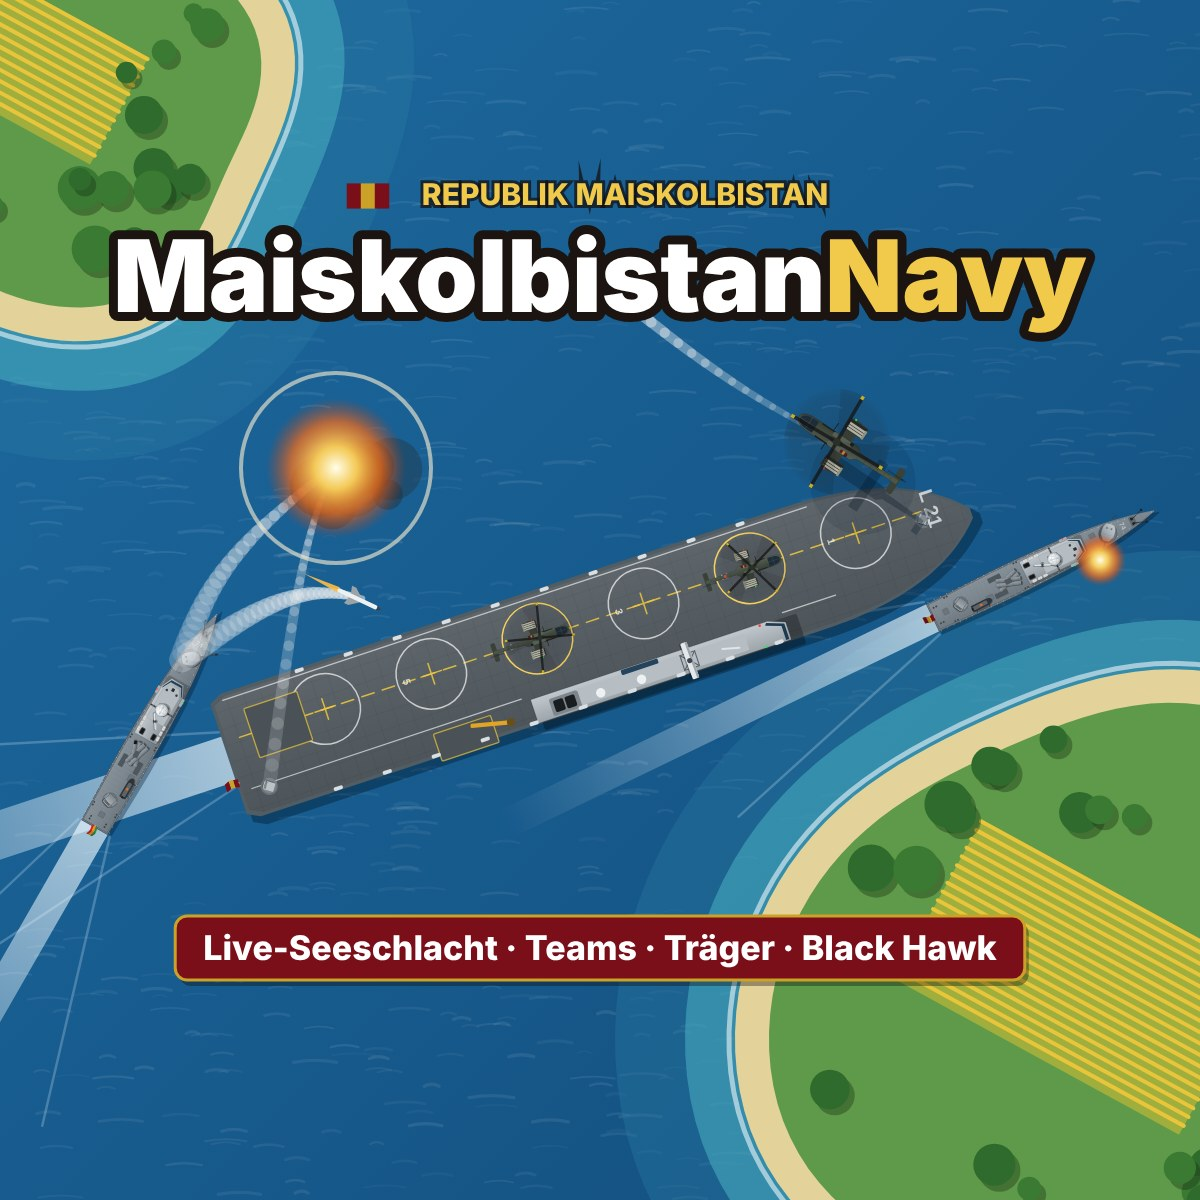
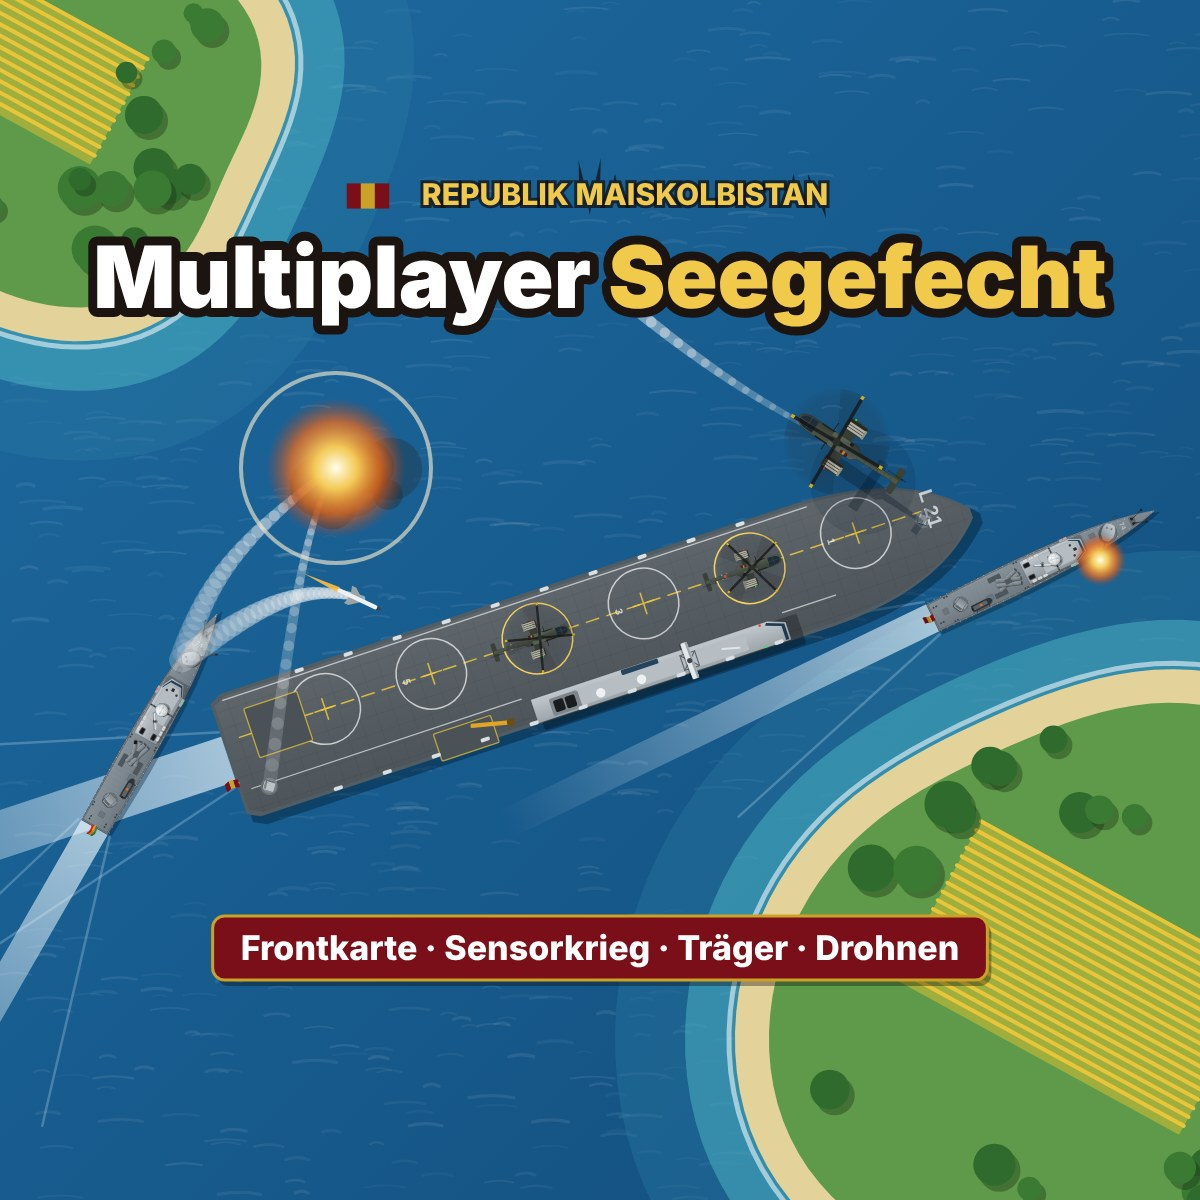
Spiel umbenannt in „Multiplayer Seegefecht“
- Titel im Browser-Tab, Startbildschirm und Link-Vorschau
- Vorschaubilder neu erzeugt (neuer Titel, Schlagworte Frontkarte · Sensorkrieg · Träger · Drohnen)
- Webadresse, Worker und Repo bleiben unverändert

Claude-Session: https://claude.ai/code/session_01H2UiKprrRmZyPj9vJsxAtU

Changed region(s): [[0.0617, 0.185, 0.925, 0.3083], [0.1233, 0.74, 0.8633, 0.8325]]

diff --git a/public/index.html b/public/index.html
@@ -3,9 +3,9 @@
 <head>
   <meta charset="utf-8" />
   <meta name="viewport" content="width=device-width, initial-scale=1" />
-  <title>MaiskolbistanNavy</title>
+  <title>Multiplayer Seegefecht</title>
   <meta name="description" content="Live-Seeschlacht der Republik Maiskolbistan: Team wählen, mit Schnellboot, Hubschrauberträger oder Black Hawk gegen Paprikistan kämpfen." />
-  <meta property="og:title" content="MaiskolbistanNavy" />
+  <meta property="og:title" content="Multiplayer Seegefecht" />
   <meta property="og:description" content="Live-Seeschlacht für viele Spieler direkt im Browser – Maiskolbistan gegen Paprikistan." />
   <meta property="og:image" content="https://maiskolbistan-navy.nikesieg0.workers.dev/vorschau.jpg" />
   <meta property="og:type" content="website" />
@@ -89,8 +89,8 @@
 
   <div id="menu">
     <div class="card">
-      <h1><span class="corn">🌽</span> Maiskolbistan<span>Navy</span></h1>
-      <p class="sub">Multiplayer-Seegefecht</p>
+      <h1><span class="corn">🌽</span> Multiplayer <span>Seegefecht</span></h1>
+      <p class="sub">Maiskolbistan gegen Paprikistan</p>
       <canvas id="preview" width="560" height="150"></canvas>
       <div class="boat-info">
         <b>Marinen von Maiskolbistan und Paprikistan</b>

diff --git a/public/style.css b/public/style.css
@@ -74,7 +74,7 @@ kbd { position: absolute; top: 5px; right: 6px; font: 700 10px system-ui; paddin
 #menu[hidden] { display: none; }
 .card { width: min(600px, 100%); text-align: center; background: rgba(8, 26, 42, 0.82);
   border: 1px solid rgba(255,255,255,.14); border-radius: 18px; padding: 28px 20px; box-shadow: 0 20px 60px rgba(0,0,0,.5); }
-h1 { margin: 0; font-size: clamp(28px, 6vw, 44px); letter-spacing: .02em; }
+h1 { margin: 0; font-size: clamp(20px, 5vw, 34px); letter-spacing: 0; white-space: nowrap; }
 h1 span:not(.corn) { color: #ffd75e; }
 .sub { margin: 4px 0 12px; opacity: .7; }
 #preview { width: 100%; max-width: 560px; height: auto; aspect-ratio: 560/150; border-radius: 12px; display: block; margin: 0 auto; }

diff --git a/README.md b/README.md
@@ -1,4 +1,6 @@
-# MaiskolbistanNavy 🌽⚓
+# Multiplayer Seegefecht 🌽⚓
+
+(Repo und Webadresse heißen aus technischen Gründen weiter `MaiskolbistanNavy` bzw. `maiskolbistan-navy`.)
 
 Top-down-Multiplayer-Schiffsspiel im Stil von mk48.io. Läuft komplett auf Cloudflare:
 ein Worker liefert den Client aus, ein Durable Object ist der autoritative Spielserver (WebSocket, 20 Ticks/s).
